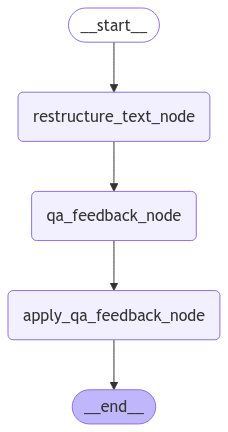
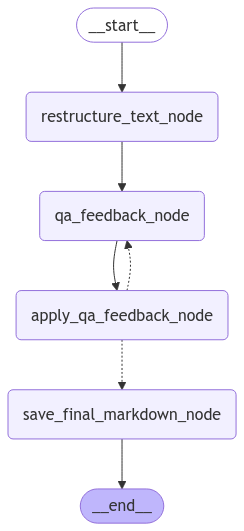
state graph & added itterations

diff --git a/src/PDF extract to md one prompt.py b/src/PDF extract to md one prompt.py
@@ -112,7 +112,7 @@ def get_qa_feedback(state: PDFToMarkdownState):
     return {"qa_feedback": state.qa_feedback}
 
 
-def continue_qa_feedback_node(state: PDFToMarkdownState) -> str:
+def continue_qa_feedback_node(state: PDFToMarkdownState) -> Literal['qa_feedback_node', 'save_final_markdown_node']:
     if state.feedback_application_counter <= 2:
         # Continue QA feedback loop
         print("Continuing QA feedback loop. Iteration:", state.feedback_application_counter + 1)
@@ -173,13 +173,13 @@ builder = StateGraph(PDFToMarkdownState, input =PDFToMarkdownInputState, output 
 builder.add_node('restructure_text_node', restructure_text)
 builder.add_node('qa_feedback_node', get_qa_feedback)
 builder.add_node('apply_qa_feedback_node', apply_qa_feedback)
+builder.add_node('save_final_markdown_node', save_final_markdown_node)
+
 # Add edges
 builder.add_edge(START, 'restructure_text_node')
 builder.add_edge('restructure_text_node', 'qa_feedback_node')
 builder.add_edge('qa_feedback_node', 'apply_qa_feedback_node')
 builder.add_conditional_edges('apply_qa_feedback_node', continue_qa_feedback_node)
-builder.add_node('save_final_markdown_node', save_final_markdown_node)
-builder.add_edge('apply_qa_feedback_node', 'save_final_markdown_node')
 builder.add_edge('save_final_markdown_node', END)
 
 

diff --git a/src/PDF extract to md.py b/src/PDF extract to md.py
@@ -182,7 +182,7 @@ graph = builder.compile()
 
 def main():
 
-    with open("/Users/phili/Library/CloudStorage/Dropbox/Phil/LeoMarketing/Marketing/Coding agent/storage/nougat_extracted_text/02_Deworm_the_World/05_Charity website/Deworm the World - Evidence Action 2020.md", "r", encoding="utf-8") as f:
+    with open("/Users/phili/Library/CloudStorage/Dropbox/Phil/LeoMarketing/Marketing/Coding agent/storage/nougat_extracted_text/01_GiveDirectly/01_Summaries/Summary_2018.md", "r", encoding="utf-8") as f:
         extracted_text = f.read()
     research_input = PDFToMarkdownInputState(extracted_text=extracted_text)
     visualize_graph(graph, "pdf_extract_to_md_v1")
